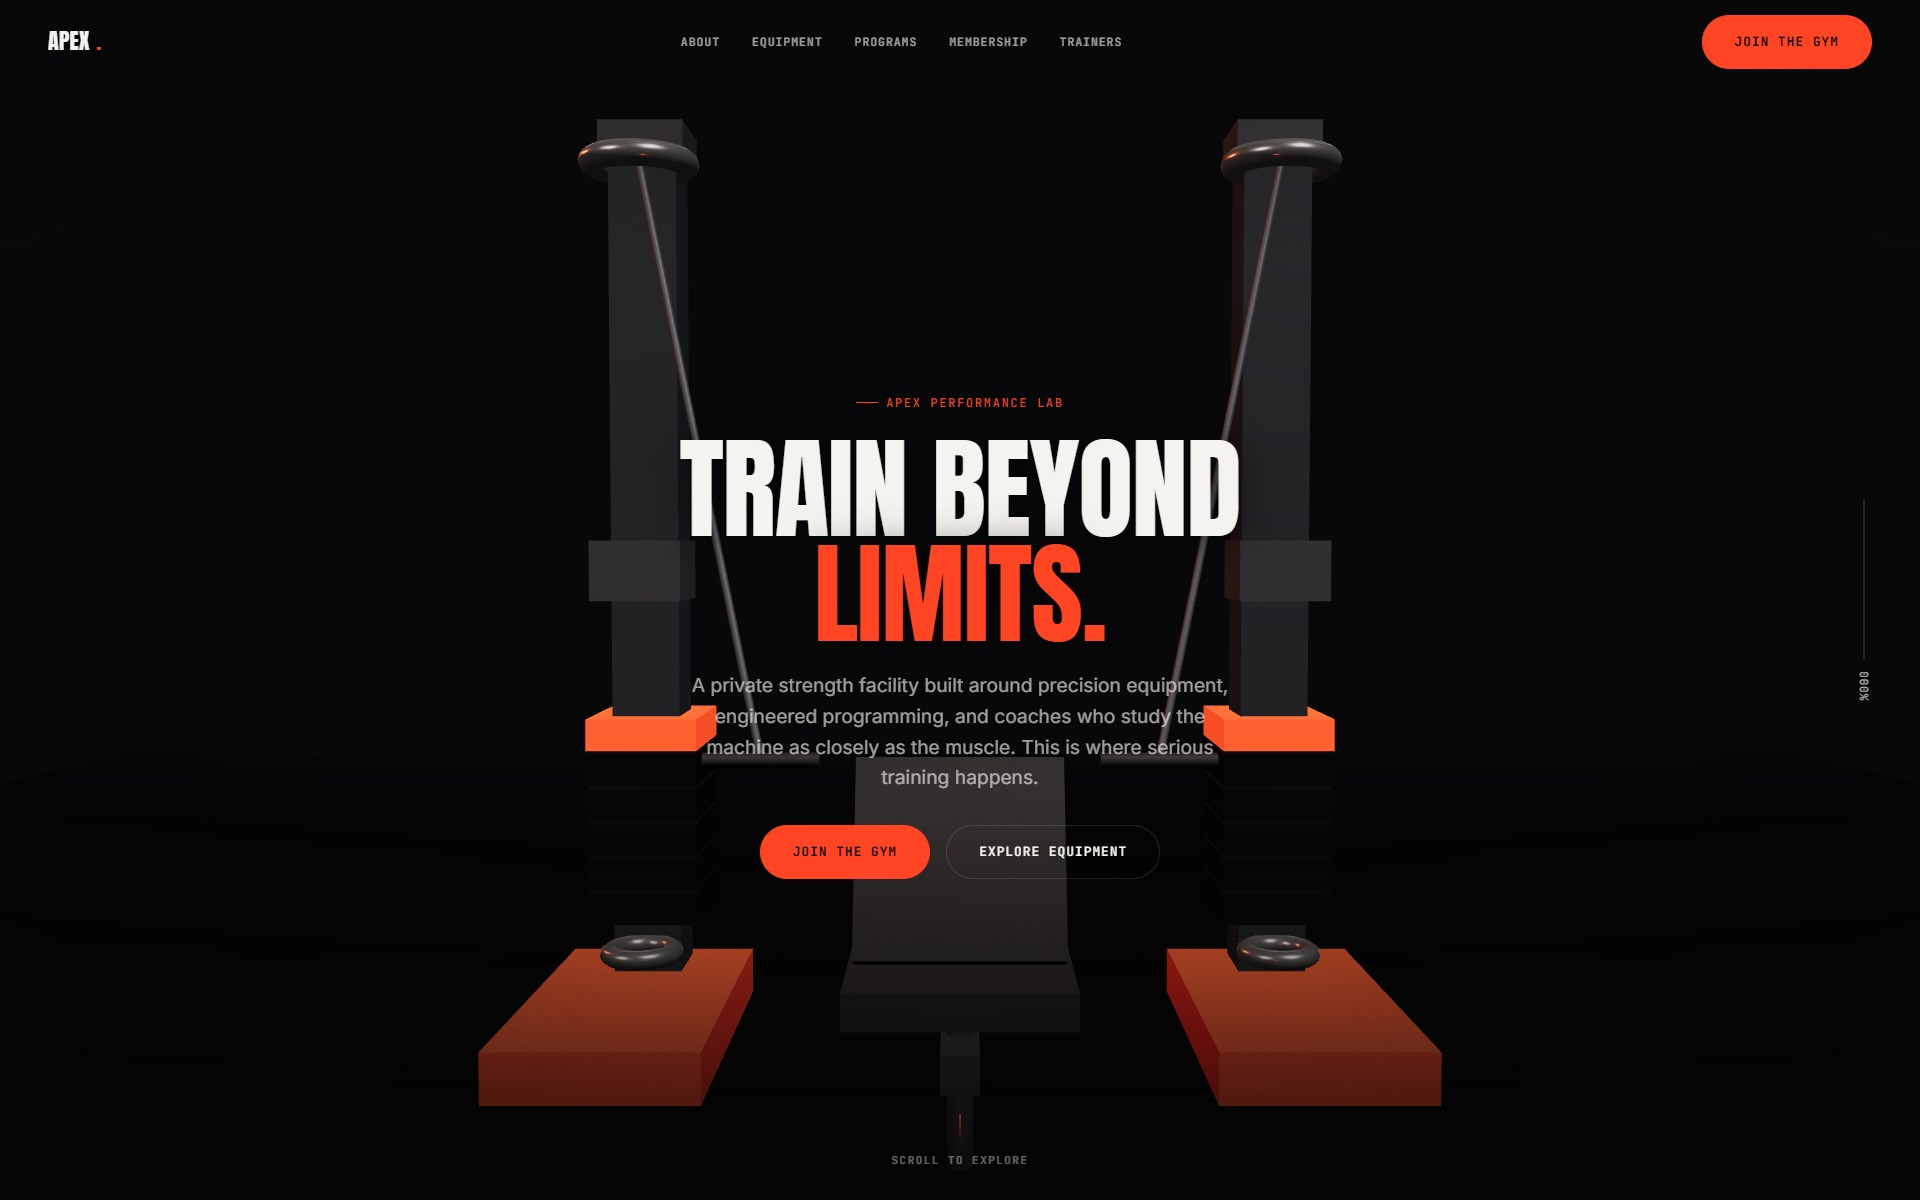
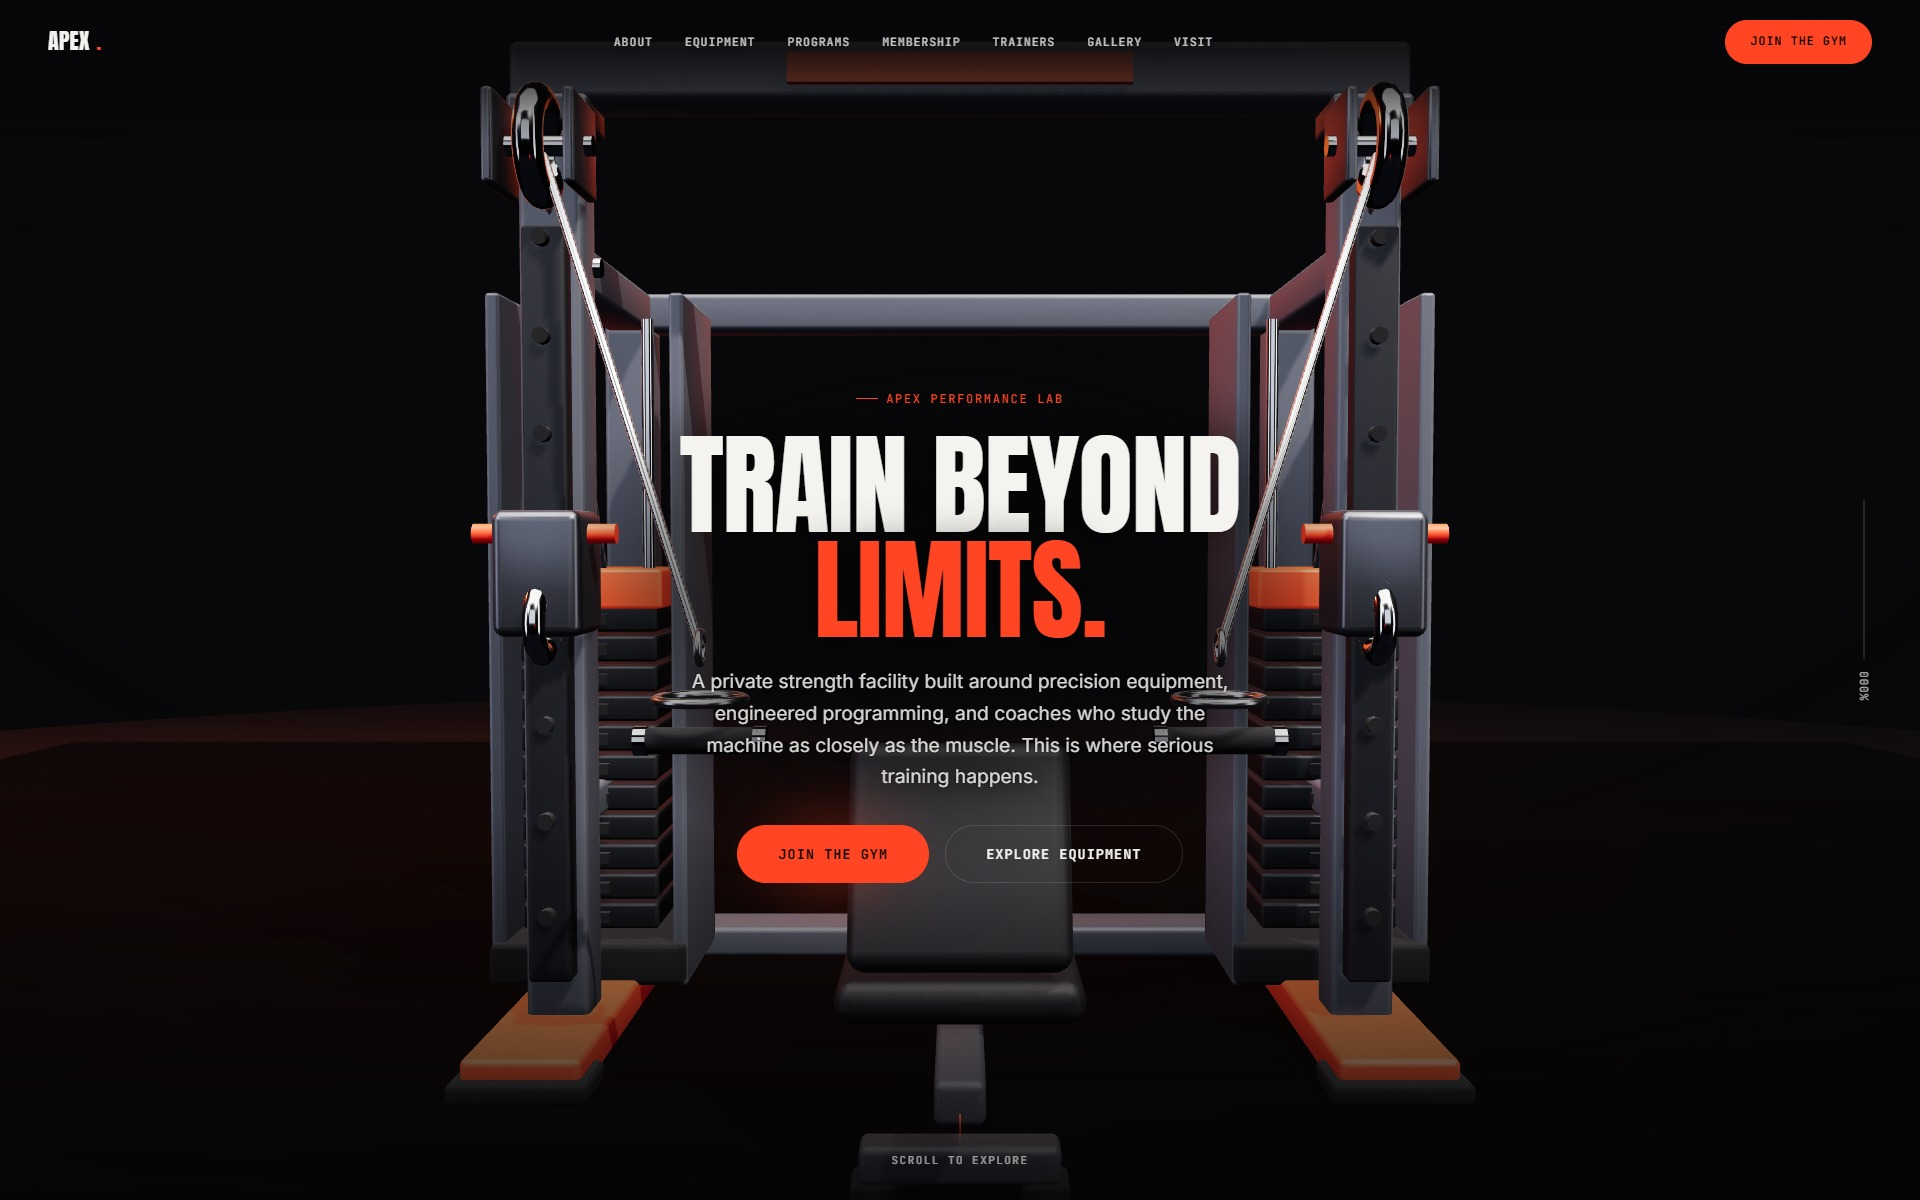
Add the Apex Gym live link and re-capture from the deployed site
Apex is deployed at https://suyash2504.github.io/Apex-Gym/ — the case study
had link: null because at build time the project existed only as a local
folder.

Re-shot all three screenshots from the live site rather than reusing the ones
taken from the local dist/. That mattered: the deployed build renders a fully
modelled cable-crossover machine where the local one was still a flat-shaded
blockout. Anyone clicking "Visit live site" now sees what the case study shows.

Also corrected the section count from 10 to 11, verified against the live DOM.

Both projects now carry a live link.

Changed region(s): [[0.0, 0.0308, 0.7812, 0.9867], [0.875, 0.0, 0.9688, 0.0617], [0.4688, 0.3083, 0.5625, 0.4008]]

diff --git a/src/data/projects.js b/src/data/projects.js
@@ -79,11 +79,11 @@ export const projects = [
       stack: ['React', 'Vite', 'TypeScript', 'Three.js / R3F', 'GSAP', 'Lenis', 'Zustand'],
       facts: [
         { label: 'Type', value: 'Self-initiated concept' },
-        { label: 'Sections', value: '10' },
+        { label: 'Sections', value: '11' },
         { label: 'Hero', value: 'Real-time WebGL' },
         { label: 'Year', value: '2026' },
       ],
-      link: null,
+      link: 'https://suyash2504.github.io/Apex-Gym/',
     },
   },
   {
